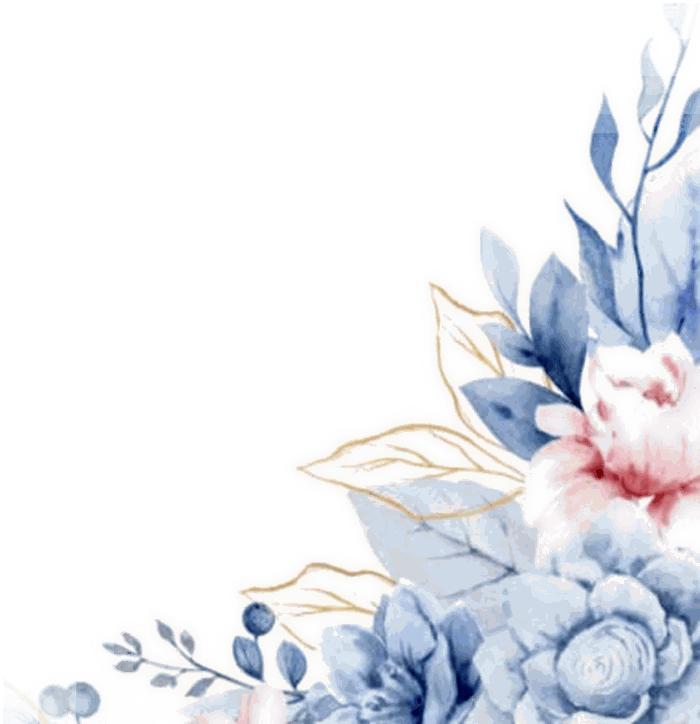
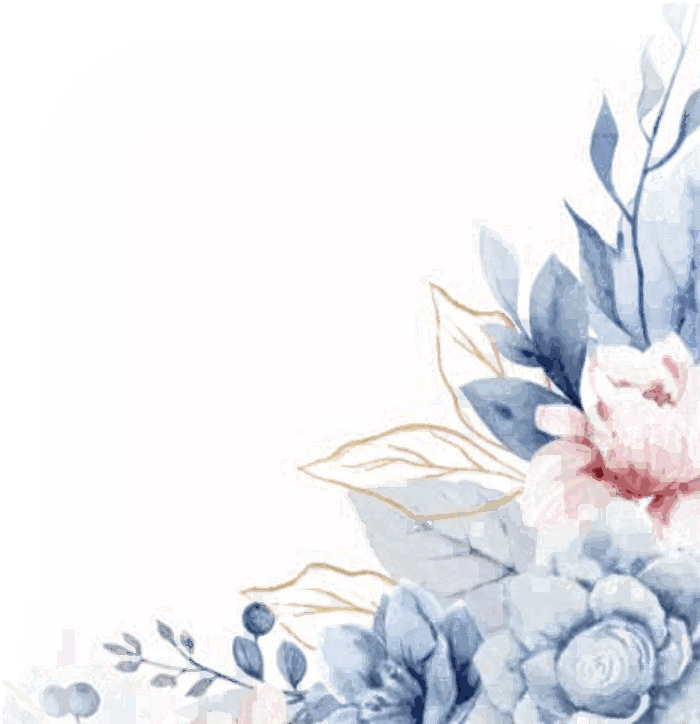
Quitar el halo blanco alrededor de las flores
El borde brilloso venía de engordar el contorno hacia afuera: al
expandirlo, el papel blanco de alrededor quedaba opaco.

Ahora los huecos del interior se cierran expandiendo y volviendo a
encoger, así el contorno no crece. Además se le descuenta al color el
blanco que aporta el papel, de modo que en los bordes semitransparentes
queda pigmento y no restos blancos.

diff --git a/index.html b/index.html
@@ -12,7 +12,7 @@
 <link rel="preconnect" href="https://fonts.gstatic.com" crossorigin>
 <link href="https://fonts.googleapis.com/css2?family=Allura&family=Marcellus&family=EB+Garamond:ital,wght@0,400;0,500;1,400&display=swap" rel="stylesheet">
 
-<link rel="stylesheet" href="css/estilos.css?v=8">
+<link rel="stylesheet" href="css/estilos.css?v=9">
 </head>
 <body class="cerrada">
 
@@ -251,6 +251,6 @@
   <p class="cierre-fecha" data-fecha="larga">Sábado 7 de noviembre de 2026</p>
 </footer>
 
-<script src="js/animaciones.js?v=8"></script>
+<script src="js/animaciones.js?v=9"></script>
 </body>
 </html>
